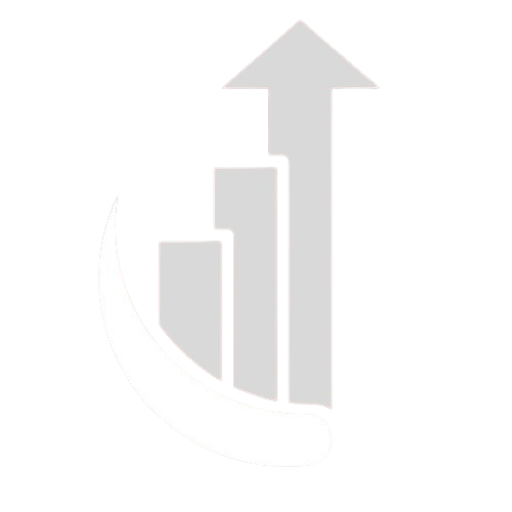
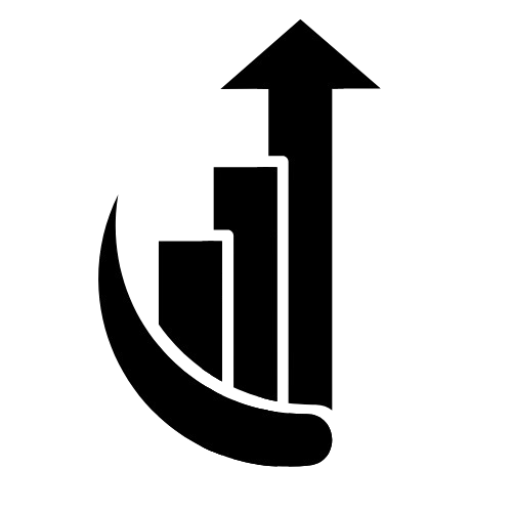
feat: images

Changed region(s): [[0.1875, 0.0312, 0.75, 0.9375]]

diff --git a/frontend/index.html b/frontend/index.html
@@ -5,7 +5,7 @@
     <meta name="viewport" content="width=device-width, initial-scale=1.0" />
 
     <!-- ✅ This line links the favicon from /public folder -->
-    <link rel="icon" href="/favicon-32x32.png" type="image/x-icon" />
+    <link rel="icon" href="/logo-dark.png" type="image/x-icon" />
 
     <!-- Critical script: apply theme before paint -->
     <script>
